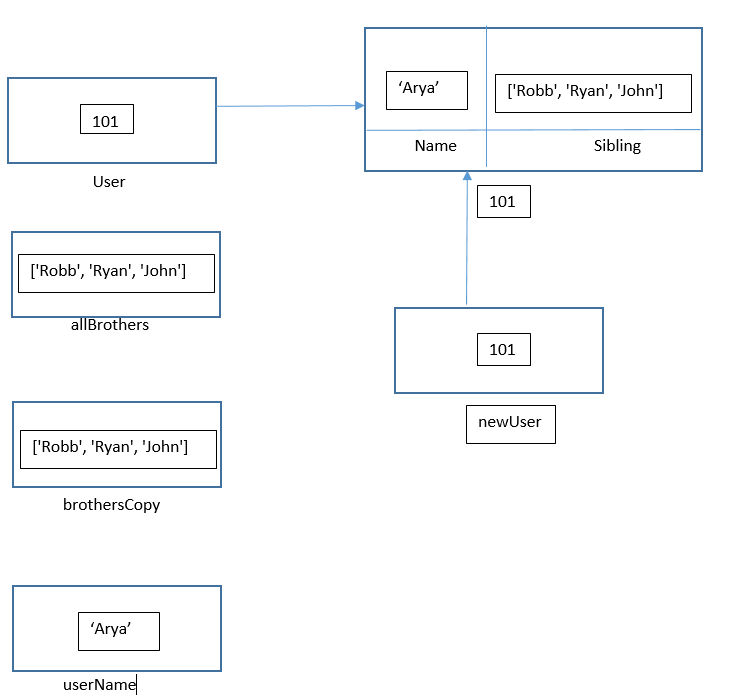
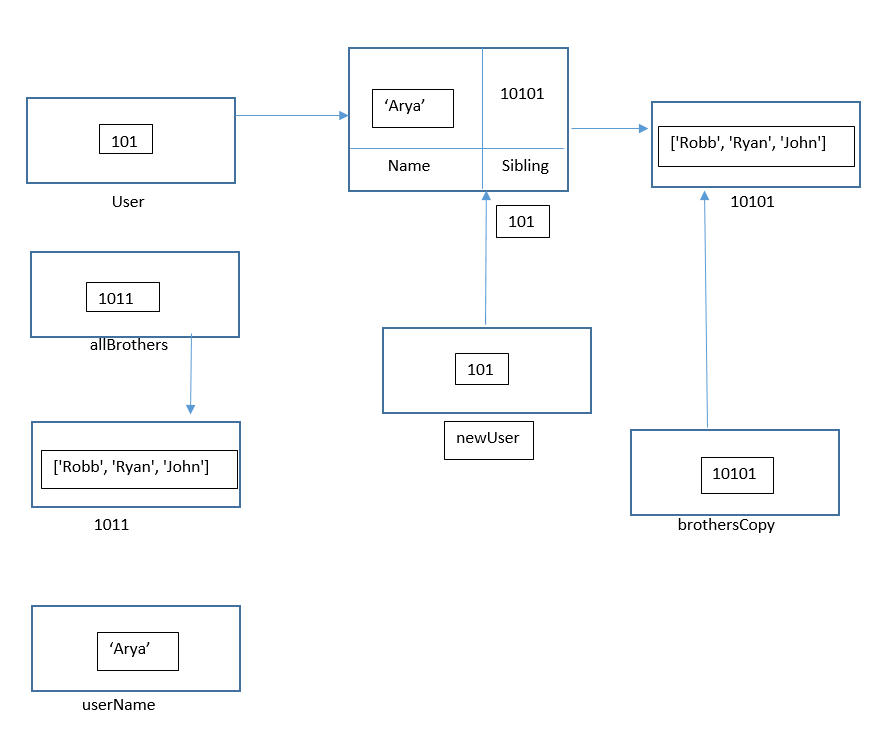
Fill Objects: Assignment Level 2

diff --git a/block-BJaacm/code/index.md b/block-BJaacm/code/index.md
@@ -26,12 +26,12 @@ let newUser = user;
 - `user.name == newUser.name;` // true as they both point to same object and value
 - `user.sibling == newUser.sibling;`  // true as they both point to same object and value
 - `user.sibling === newUser.sibling;`  // true as they both point to same object and value
-- `user.sibling == allBrothers;` // false
-- `user.sibling === allBrothers;` // false
-- `brothersCopy === allBrothers;` // false
-- `brothersCopy == allBrothers;` // false
-- `brothersCopy == user.sibling;` // true
-- `brothersCopy === user.sibling;` // true
+- `user.sibling == allBrothers;` // false as objects are in different memory locations
+- `user.sibling === allBrothers;` // false as objects are in different memory locations
+- `brothersCopy === allBrothers;` // false as objects are in different memory locations
+- `brothersCopy == allBrothers;` // false as objects are in different memory locations
+- `brothersCopy == user.sibling;` // true as objects are in same memory locations
+- `brothersCopy === user.sibling;` // true as objects are in same memory locations
 - `brothersCopy[0] === user.sibling[0];` // true as both the arrays are equal
 - `brothersCopy[1] === user.sibling[1];` // true as both the arrays are equal
 - `user.sibling[1] === newUser.sibling[1];` // true as they both point to same object and value
